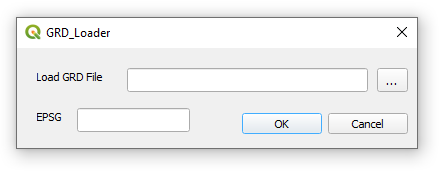
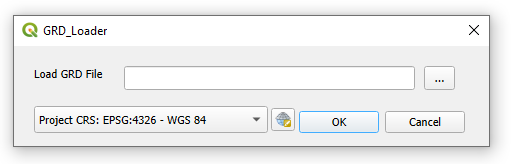
Use Projection Widget i dialog

Changed region(s): [[0.0, 0.0915, 0.9662, 0.9451], [0.1757, 0.5793, 0.4392, 0.6098]]

diff --git a/GRD_Loader.py b/GRD_Loader.py
@@ -194,8 +194,9 @@ class GrdLoader:
         filename, _filter = QFileDialog.getOpenFileName(
             self.dlg, "Select input file ","", '*.grd *.GRD')
         self.dlg.lineEdit.setText(filename)
+    
 
-    def load_a_grid(self):
+    def load_a_grid(self,proj):
         file_path = self.dlg.lineEdit.text()
         if(os.path.exists(file_path+'.xml')):
             epsg=extract_proj_str(file_path+'.xml')
@@ -205,9 +206,9 @@ class GrdLoader:
             else:
                 self.iface.messageBar().pushMessage("CRS Read from XML as "+epsg+", manual input ignored", level=Qgis.Info, duration=15)
         else:
-            try:
-                epsg = int(self.dlg.lineEdit_2.text())
-            except:
+            if(proj.isValid()):
+                epsg = proj.authid().split(':')[1]
+            else:
                 epsg = 4326
                 self.iface.messageBar().pushMessage("No CRS Defined, assumed to be 4326", level=Qgis.Warning, duration=15)
 
@@ -257,13 +258,14 @@ class GrdLoader:
     
     def define_tips(self):
         Path_tooltip = '<p>Path to Geosoft Binary Grid</p>'
-        Epsg_tooltip = '<p>Coordinate Reference System Number, leave blank for default of 4326 or if XML file available</p>'
+        Epsg_tooltip = '<p>Coordinate Reference System , leave blank for default of EPSG:4326 or if XML file available</p>'
         self.dlg.lineEdit.setToolTip(Path_tooltip)
         self.dlg.pushButton.setToolTip(Path_tooltip)
-        self.dlg.lineEdit_2.setToolTip(Epsg_tooltip)
+        self.dlg.mQgsProjectionSelectionWidget.setToolTip(Epsg_tooltip)
 
 
     def run(self):
+        from qgis.gui import QgsProjectionSelectionWidget
         """Run method that performs all the real work"""
 
         # Create the dialog with elements (after translation) and keep reference
@@ -272,7 +274,7 @@ class GrdLoader:
             self.first_start = False
             self.dlg = GrdLoaderDialog()
             self.dlg.pushButton.clicked.connect(self.select_input_file)
-        
+
         self.define_tips()
 
         # show the dialog
@@ -283,4 +285,6 @@ class GrdLoader:
         if result:
             # Do something useful here - delete the line containing pass and
             # substitute with your code.
-            self.load_a_grid()    
+            proj=self.dlg.mQgsProjectionSelectionWidget.crs()
+            print(proj.authid())
+            self.load_a_grid(proj)    

diff --git a/README.md b/README.md
@@ -11,7 +11,9 @@ Save repository to disk as a zip file. Use QGIS Plugin Manager to load directly 
 1. Once the QGIS *grd_loader* Plugin is installed, click on the ![grd_icon](icon.png) icon from the Plugins Toolbar.   
 2. From here you can search for a GRD format file and load it as a raster grid.   
 3. If this GRD has an associated xml file you can then just click on the OK button to load the grid. 
-4. If no XML is present, manually enter the numeric EPSG code (e.g. 4326 = WGS 84 Lat/Long), then cick on the OK button.    
+4. If no XML is present, select a projection from the dropdown menu or projection button, then cick on the OK button to laod the grid.    
+
+ ![waxi_qf dialog](dialog.png) 
 
 ## Credits    
 Plugin construction-Mark Jessell using QGIS Plugin Builder Plugin    
